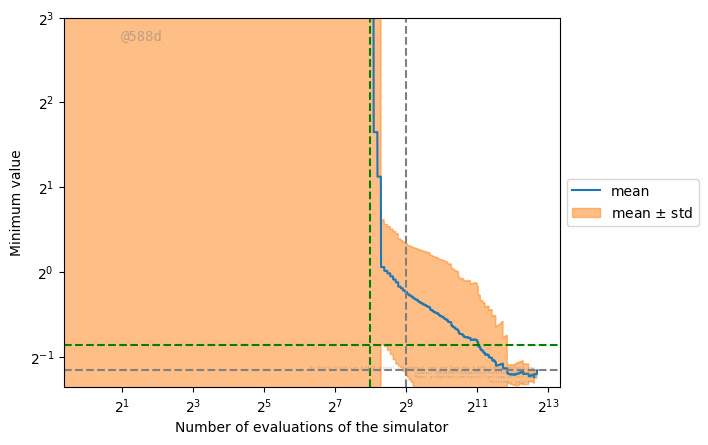
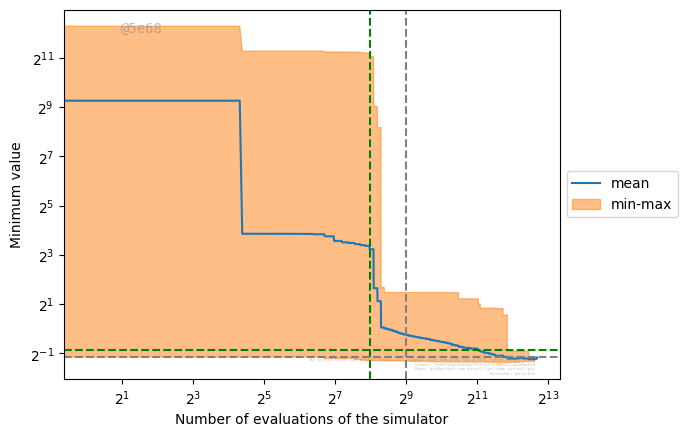
fixed plotting and dumping parameters

diff --git a/ensemble_run/plot_iterations.py b/ensemble_run/plot_iterations.py
@@ -44,6 +44,8 @@ if __name__ == '__main__':
                 number_of_reruns = configuration['number_of_reruns']
                 
                 min_value_per_iteration = np.zeros((len(iterations), number_of_reruns))
+                value_per_iteration = np.zeros((sum(iterations), number_of_reruns))
+
                 
                 aux_min_values = collections.defaultdict(lambda: np.zeros((len(iterations), number_of_reruns)))
 
@@ -64,7 +66,8 @@ if __name__ == '__main__':
                             values = all_values[start_index:end_index]
                             #values = values[~np.isnan(values)]
                             min_value = np.min(values)
-                            
+
+                            value_per_iteration[:, rerun] = all_values
                             
                             arg_min_value = np.argmin(all_values[:end_index])
                             if iteration > 0:
@@ -79,16 +82,10 @@ if __name__ == '__main__':
                                 
                                 aux_min_values[aux_name][iteration, rerun] = min_aux_value
 
-                            output_parameters_filename = os.path.join(output_folder,
-                                                         f'parameters.txt')
-                            output_parameters = np.loadtxt(output_parameters_filename)
+
                             min_shapes_per_iteration.append(output_parameters[arg_min_value])
 
-                            mean_value = np.mean(min_value_per_iteration[iteration,:])
 
-                            index_closest_to_mean_value = abs(mean_value - min_value_per_iteration[iteration, :]).argmin()
-
-                            closest_to_mean_shapes_per_iteration.append(output_parameters[index_closest_to_mean_value])
 
                                 
                         except Exception as e:
@@ -96,6 +93,37 @@ if __name__ == '__main__':
                              print(str(e))
                              logging.exception(e)
                              print(f"Failing {batch_size_factor} {starting_size} {generator}")
+                for iteration in range(len(iterations)):
+                    mean_value = np.mean(min_value_per_iteration[iteration, :])
+                    end_index = end_index = sum(iterations[:iteration + 1])
+                    index_closest_to_mean_value = np.unravel_shape(abs(mean_value - value_per_iteration[:end_index, :]).argmin(),
+                                                                   value_per_iteration.shape)
+
+                    output_folder_closest_to_mean = os.path.join(get_configuration_name(configuration['basename'],
+                                                                        index_closest_to_mean_value[1], starting_size,
+                                                                        batch_size_factor ** (-1)), 'airfoil_chain')
+
+                    output_parameters_filename_closest_to_mean = os.path.join(output_folder_closest_to_mean[1],
+                                                              f'parameters.txt')
+                    output_parameters_closest_to_mean = np.loadtxt(output_parameters_filename_closest_to_mean)
+
+                    closest_to_mean_shapes_per_iteration.append(output_parameters_closest_to_mean[index_closest_to_mean_value[0]])
+
+                    index_min_value = np.unravel_shape(value_per_iteration[:end_index, :].argmin(),
+                                                                   value_per_iteration.shape)
+
+                    output_folder_min_value = os.path.join(get_configuration_name(configuration['basename'],
+                                                                        index_min_value[1], starting_size,
+                                                                        batch_size_factor ** (-1)), 'airfoil_chain')
+
+                    output_parameters_filename_min_value = os.path.join(output_folder_min_value[1],
+                                                              f'parameters.txt')
+                    output_parameters_min_value = np.loadtxt(output_parameters_filename_min_value)
+
+                    min_shapes_per_iteration.append(output_parameters_min_value[index_min_value[0]])
+
+
+
                 plot_info.saveData(f'min_shapes_per_iteration_{python_script}_{generator}_{iterations[1]}_{starting_size}',
                                    min_shapes_per_iteration)
                 plot_info.saveData(
@@ -184,6 +212,38 @@ if __name__ == '__main__':
                     plot_info.savePlot("{script}_{source_name}_{generator}_{batch_size}_{starting_size}".format(
                         script=python_script.replace(".py", ""),
                         source_name = source_name,
+                        batch_size=iterations[1],
+                        starting_size=starting_size,
+                        generator=generator))
+                    plt.close('all')
+
+
+                    ## min/max
+                    plt.fill_between(iteration_range, np.min(source[0], 1), np.max(source[0], 1),
+                                     alpha = 0.3, color='C0')
+
+                    plt.plot(iteration_range, np.mean(source[0], 1), '-o',
+                            label='ISMO')
+
+                    plt.fill_between(iteration_range, np.min(source[1], 1), np.max(source[1], 1),
+                                     alpha=0.3, color='C1')
+
+                    plt.plot(iteration_range, np.mean(source[1], 1), '-o',
+                             label='DNN+Opt')
+
+
+                    plt.xlabel("Iteration $k$")
+                    if source_name == "objective":
+                        plt.ylabel("$\\mathbb{E}( J(x_k^*))$")
+                    else:
+                        plt.ylabel(f"$\\mathrm{{{source_name}}}(x_k^*)$")
+
+                    plt.legend()
+                    plt.title("min/max, type: {}, script: {}, generator: {}, batch_size_factor: {},\nstarting_size: {}".format(
+                        source_name, python_script, generator, batch_size_factor, starting_size))
+                    plot_info.savePlot("{script}_min_max_{source_name}_{generator}_{batch_size}_{starting_size}".format(
+                        script=python_script.replace(".py", ""),
+                        source_name=source_name,
                         batch_size=iterations[1],
                         starting_size=starting_size,
                         generator=generator))

diff --git a/airfoil_chain/plot_tradtional.py b/airfoil_chain/plot_tradtional.py
@@ -100,12 +100,12 @@ if __name__ == '__main__':
      plot_info.showAndSave("optimized_traditional_histograms")
 
      number_of_iterations = np.arange(0, max_number_of_iterations)
-     plt.fill_between(number_of_iterations, mean_per_iteration-std_per_iteration, mean_per_iteration+std_per_iteration,
-                      alpha=0.5, color='C1', label=r'mean $\pm$ std')
-     #plt.fill_between(number_of_iterations, min_per_iteration,
-     #                 max_per_iteration)
+     #plt.fill_between(number_of_iterations, mean_per_iteration-std_per_iteration, mean_per_iteration+std_per_iteration,
+     #                alpha=0.5, color='C1', label=r'mean $\pm$ std')
+     plt.fill_between(number_of_iterations, min_per_iteration,
+                      max_per_iteration, alpha=0.5, color='C1', label=r'min-max')
      plt.plot(number_of_iterations, mean_per_iteration, label='mean')
-     plt.ylim([min_value, 4*max_value])
+     #plt.ylim([min_value, 4*max_value])
      plt.axvline(512, color='grey', linestyle='--')
      plt.axvline(256, color='green', linestyle='--')
      plt.axhline(0.55, color='green', linestyle='--')
